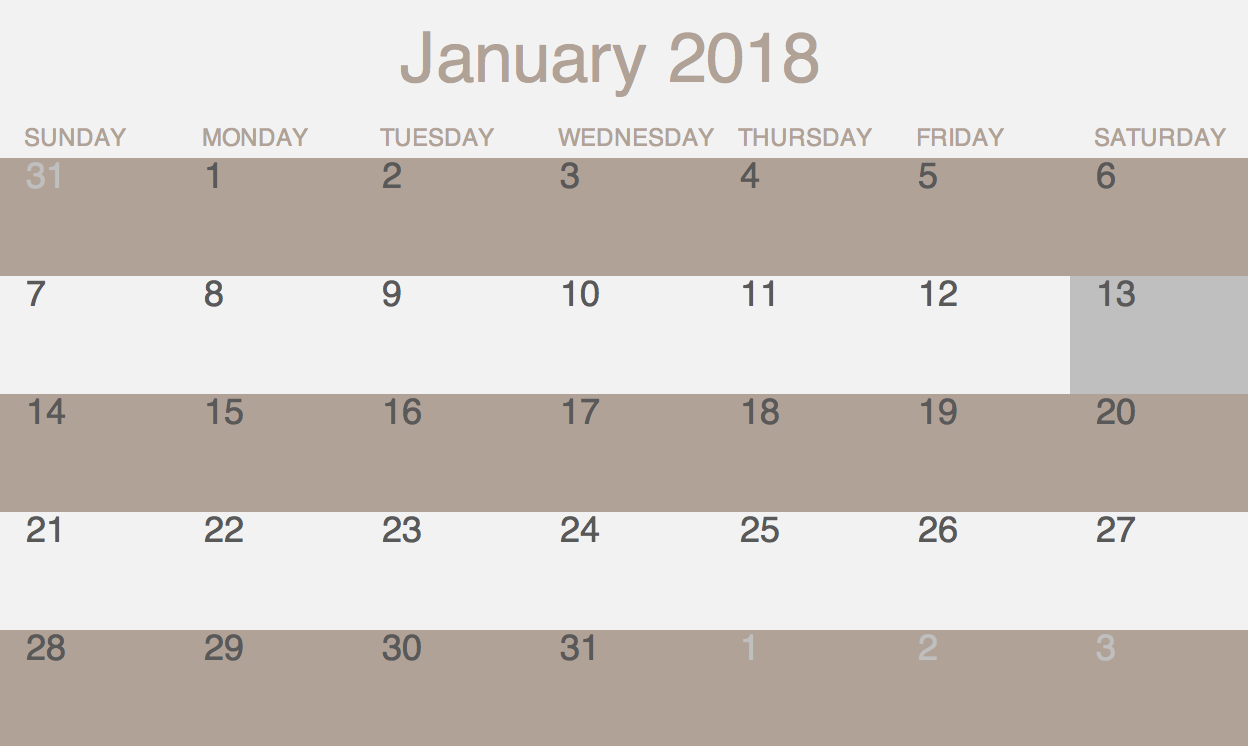
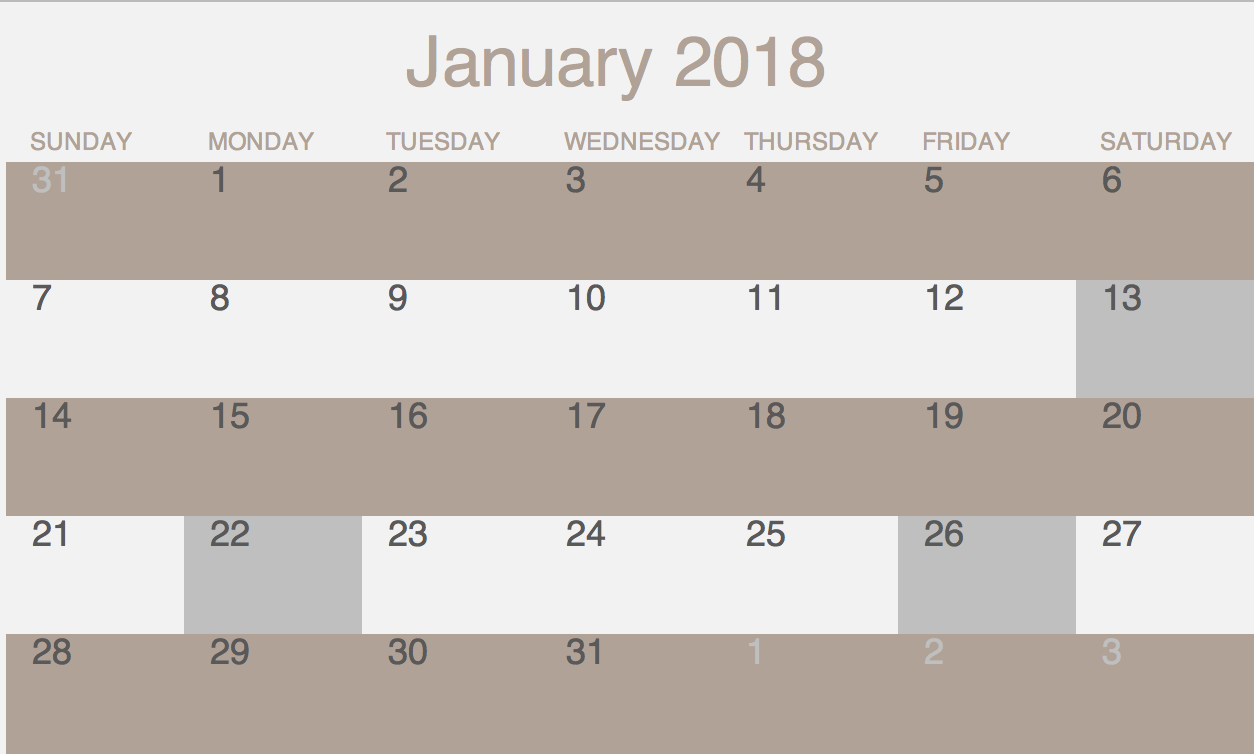
Fixed homepage bugs

diff --git a/includes/Home - Chat Reponse.html b/includes/Home - Chat Reponse.html
@@ -1,7 +1,7 @@
 <!DOCTYPE html>
 <html>
 <head>
-	<title>Homepage</title>
+    <title>Homepage</title>
       <link rel="stylesheet" href="../css/Home.css">
     <link rel="stylesheet" href="../css/main.css">
     <link rel="stylesheet" href="../css/event-page.css">
@@ -9,7 +9,7 @@
 
 
 <body id='body'>
-	<div class="navBar" id="mainNavBar">
+    <div class="navBar" id="mainNavBar">
       <ul>
           <li><a class="navBarItem" href="#home">Parties</a></li>
           <li><a class="navBarItem" href="Home - Conventions.html">Conventions</a></li>
@@ -25,58 +25,7 @@
 
             <div class='side-bar-search'>
                 <input class='event-search', type='text', placeholder='Find an event'>
-                <a href="../includes/Home.html" class='filter-drop'><p>Filters <img src="../images/up-chev.jpg"></p></a>
-
-                <div>
-                    <h5 class='filter'>Type</h5>
-                    <div>
-                        <input class='checkbox' type='checkbox'>
-                        <label class='filter'>Party</label>
-                    </div>
-                    <div>
-                        <input class='checkbox' type='checkbox'>
-                        <label class='filter'>Convention</label>
-                    </div>
-                    <div>
-                        <input class='checkbox' type='checkbox'>
-                        <label class='filter'>Club</label>
-                    </div>
-                    <div>
-                        <input class='checkbox' type='checkbox' checked='checked'>
-                        <label class='filter'>All</label>
-                    </div>
-
-                    <h5 class='filter'>Date/Time</h5>
-                    <div>
-                        <input class='checkbox' type='checkbox'>
-                        <label class='filter'>Today</label>
-                    </div>
-                    <div>
-                        <input class='checkbox' type='checkbox'>
-                        <label class='filter'>Within 1 week</label>
-                    </div>
-                    <div>
-                        <input class='checkbox' type='checkbox' checked='checked'>
-                        <label class='filter'>Whenever</label>
-
-                    </div>
-
-                    <h5 class='filter'>Distance</h5>
-                    <div class='filter-distance'>
-                        <div class='filter-sbs'>
-                            <label class='filter'>From</label>
-                            <input class='input-number' type='number'>
-                        </div>
-                        <div class='filter-sbs'>
-                            <label class='filter'>To</label>
-                            <input class='input-number' type='number'>
-                        </div>
-                        <div>
-                            <input class='checkbox' type='checkbox' checked='checked'>
-                            <label class='filter'>Wherever</label>
-                        </div>
-                    </div>
-                </div>
+                <a href="../includes/HomeWithFilters.html" class='filter-drop'><p>Filters <img class='rotate-down' src="../images/up-chev.jpg"></p></a>
             </div>
 
             <div class='side-bar-items'>
@@ -211,17 +160,31 @@
                                 <span class="left">Nicee</span>
                                 <div class="clear"></div>
                             </li>
+                            <li>
+                                <span class="right">How many people are coming?</span>
+                                <div class="clear"></div>
+                            </li>
+                            <li>
+                                <span class="left">Dude it's gonna be like 100 people</span>
+                                <div class="clear"></div>
+                            </li>
                         </ul>
                         <div class="clear"></div>
                     </div>
 
                     <div class="input-box">
                         <textarea placeholder="Enter message"></textarea>
+                        <a href="Home - Chat Reponse.html"><button class="send">Send</button></a>
                     </div>
                 </div>
             </div>
             <div class="info-container">
+                <h2>Joe's Party</h2>
                 <table class="borderless">
+                    <tr class="key-row">
+                        <td class="key">Date & Time</td>
+                        <td class="value">01/23/2018, 12:00pm - 5:00pm</td>
+                    </tr>
                     <tr class="key-row">
                         <td class="key">Location</td>
                         <td class="value">123 Test St. Edwardsville, IL</td>
@@ -242,7 +205,7 @@
                     </tr>
                 </table>
                 <div class="attend-container">
-                    <button class="attend">Attend</button>
+                    <a href="Home - Attending.html" ><button class="attend">Attend</button></a>
                 </div>
             </div>
         </div>

diff --git a/includes/Home - Conventions.html b/includes/Home - Conventions.html
@@ -135,6 +135,7 @@
                 <img style="width:100%" src="../img/gmaps.jpg" />
             </div>
             <div class="calendar-container">
+                <h2>Your Calendar</h2>
                 <img class="calendar" src="../img/calendar.png" />
                 <div class="clearfix"></div>
                 <div class="chat-box">
@@ -155,7 +156,7 @@
                                 <td>Room 213</td>
                             </tr>
                             <tr>
-                                <td class="key">7:00pm</td>
+                                <td class="key">5:00pm</td>
                                 <td class="value">Commencement</td>
                                 <td>Room 214</td>
                             </tr>
@@ -168,7 +169,12 @@
                 </div>
             </div>
             <div class="info-container">
+                <h2>Docker Talk</h2>
                 <table class="borderless">
+                    <tr class="key-row">
+                        <td class="key">Date & Time</td>
+                        <td class="value">01/24/2018, 12:00pm - 6:00pm</td>
+                    </tr>
                     <tr class="key-row">
                         <td class="key">Location</td>
                         <td class="value">123 Test St. St. Louis, MO</td>

diff --git a/includes/Home - Attending.html b/includes/Home - Attending.html
@@ -138,7 +138,8 @@
                 <img style="width:100%" src="../img/gmaps.jpg" />
             </div>
             <div class="calendar-container">
-                <img class="calendar" src="../img/calendar.png" />
+                <h2>Your Calendar</h2>
+                <img class="calendar" src="../img/calendar-attend.png" />
                 <div class="clearfix"></div>
                 <div class="chat-box">
                     <div class="header">
@@ -165,11 +166,17 @@
 
                     <div class="input-box">
                         <textarea placeholder="Enter message"></textarea>
+                        <a href="Home - Chat Reponse.html"><button class="send">Send</button></a>
                     </div>
                 </div>
             </div>
             <div class="info-container">
+                <h2>Joe's Party</h2>
                 <table class="borderless">
+                    <tr class="key-row">
+                        <td class="key">Date & Time</td>
+                        <td class="value">01/23/2018, 12:00pm - 5:00pm</td>
+                    </tr>
                     <tr class="key-row">
                         <td class="key">Location</td>
                         <td class="value">123 Test St. Edwardsville, IL</td>

diff --git a/includes/Home.html b/includes/Home.html
@@ -138,6 +138,7 @@
                 <img style="width:100%" src="../img/gmaps.jpg" />
             </div>
             <div class="calendar-container">
+                <h2>Your Calendar</h2>
                 <img class="calendar" src="../img/calendar.png" />
                 <div class="clearfix"></div>
                 <div class="chat-box">
@@ -165,11 +166,17 @@
 
                     <div class="input-box">
                         <textarea placeholder="Enter message"></textarea>
+                        <a href="Home - Chat Reponse.html"><button class="send">Send</button></a>
                     </div>
                 </div>
             </div>
             <div class="info-container">
+                <h2>Joe's Party</h2>
                 <table class="borderless">
+                    <tr class="key-row">
+                        <td class="key">Date & Time</td>
+                        <td class="value">01/23/2018, 12:00pm - 5:00pm</td>
+                    </tr>
                     <tr class="key-row">
                         <td class="key">Location</td>
                         <td class="value">123 Test St. Edwardsville, IL</td>

diff --git a/css/event-page.css b/css/event-page.css
@@ -40,10 +40,13 @@
 }
 
 .calendar-container {
-  display:inline-block;
-  width:35%;
+  /*display:flex;*/
+  flex-direction:row;
+  flex-grow:1;
   float:right;
-  height:100%;
+  background-color:whitesmoke;
+  border-radius:10px;
+  max-width:35%;
 }
 
 .calendar {
@@ -57,6 +60,7 @@
 {
     width: 100%;
     float:right;
+    margin-top:10px;
 }
 
 .header
@@ -188,8 +192,9 @@
 
 .input-box textarea
 {
+    float:left;
     padding: 0px;
-    width: 100%;
+    width: 80%;
     height: 100%;
     display: inline-block;
     outline: 0px;
@@ -258,6 +263,21 @@ td {
     line-height: 54px;
     font-size: 24px;
     padding: 0 28px;
+    text-decoration: none;
+    color: #fff;
+    background-color: #7395AE;
+    text-align: center;
+    border: none;
+    border-radius: 5px;
+    margin:20px;
+}
+
+.send {
+    float:right;
+    height: 100%;
+    width:19%;
+    line-height: 50px;
+    font-size: 24px;
     text-decoration: none;
     color: #fff;
     background-color: #7395AE;

diff --git a/includes/event-list.html b/includes/event-list.html
@@ -18,8 +18,10 @@
   </div>
 
 
+    <div class="event-name">
+        <h1>Docker 12:00pm - 6:00pm</h1>
+    </div>
     <div class='plans-container'>
-
         <div class ='all-events plans'>
             <h1 class ='plans-header'>All Events</h1>
 

diff --git a/css/conventions.css b/css/conventions.css
@@ -38,3 +38,8 @@
   font-size: 12px;
   margin-top:-5px;
 }
+
+.event-name {
+  text-align:center;
+
+background-color:whitesmoke;}
